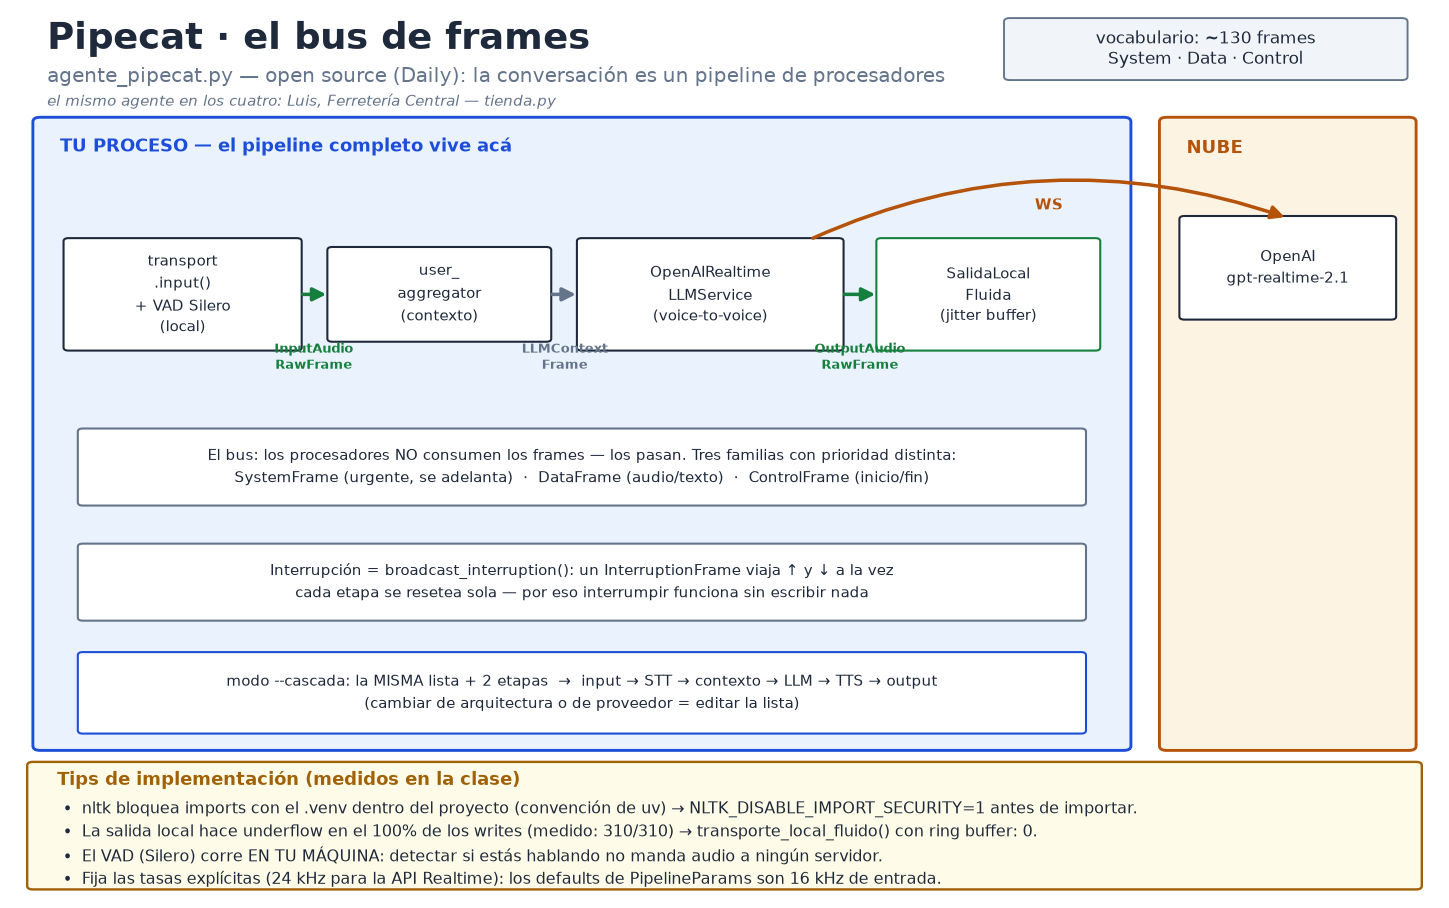
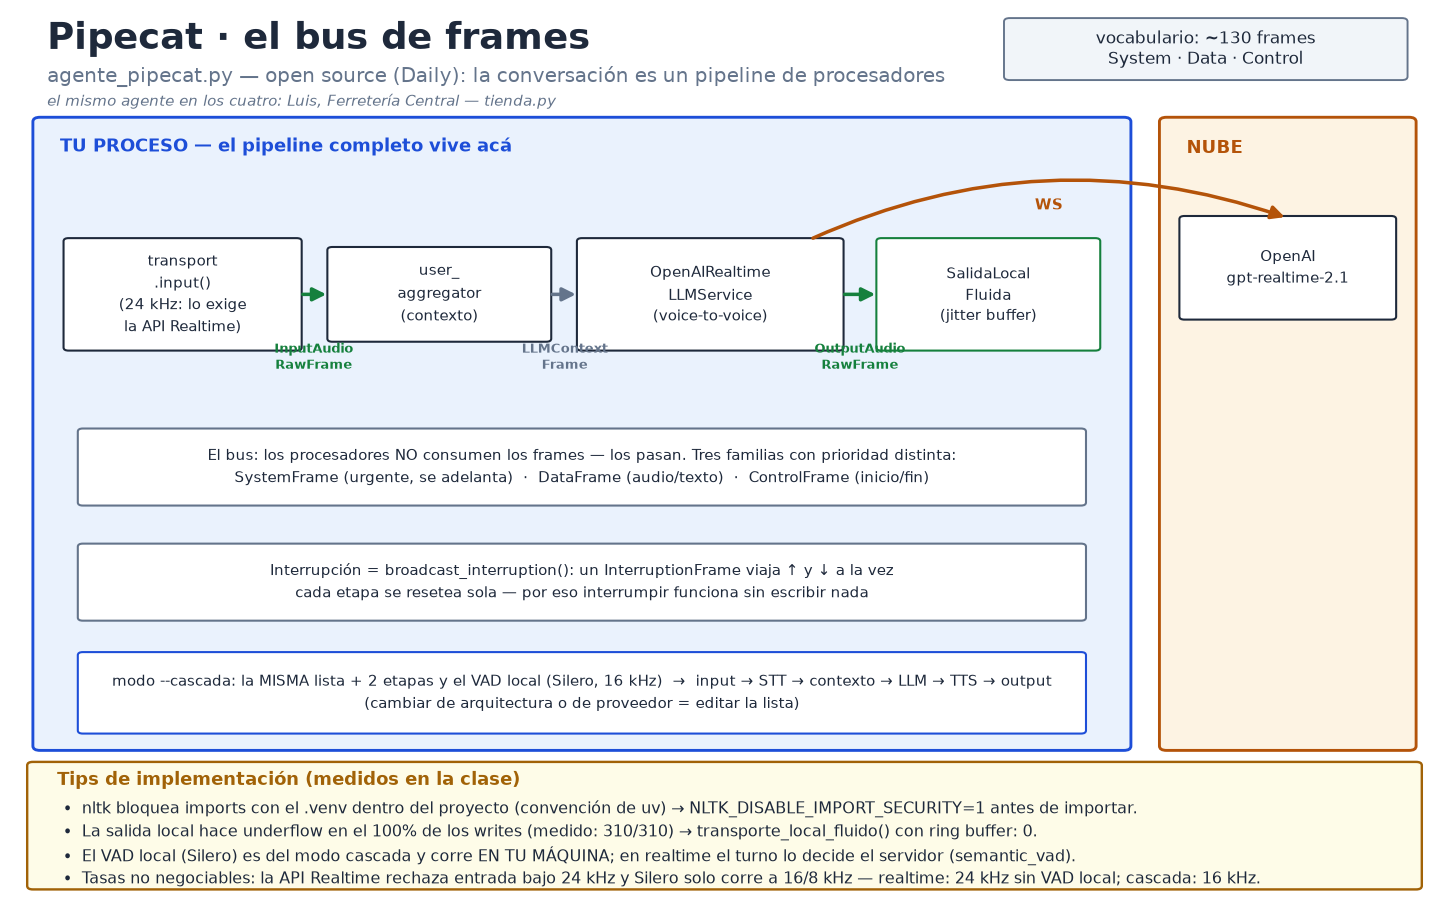
Clase 5.3 L4 — arregla el VAD en modo realtime y renombra "a pelo" → "API directa"
El bug (reportado al correr en vivo): fijar las tasas a 24 kHz en el arreglo
del audio saltón rompió el arranque de agente_pipecat.py con
"Silero VAD sample rate needs to be 16000 or 8000". El --check no lo detectaba
porque el VAD recién procesa audio en vivo.

La investigación reveló un choque de restricciones reales, verificado contra
la API y el código de pipecat 1.7:
- La API Realtime RECHAZA entrada PCM bajo 24 kHz (session.update con
  rate=16000 → "Expected a value >= 24000").
- Pipecat NO resamplea la entrada: _send_user_audio manda los bytes del
  micrófono tal cual al WebSocket (la salida sí: base_output resamplea).
- Silero solo corre a 16 u 8 kHz.

Conclusión: en modo realtime el VAD local no puede existir — y no hace falta.
El turno lo decide el servidor (semantic_vad) y el propio servicio difunde
UserStarted/StoppedSpeakingFrame y la interrupción por el bus
(_handle_evt_speech_started). El aggregator lo confirma en el log:
"detected realtime service; auto-enabled realtime_service_mode".

Fix en agente_pipecat.py: realtime = 24 kHz sin VAD local; cascada = entrada
16 kHz con Silero; salida siempre 24 kHz. Verificado con corridas EN VIVO de
25 s por modo: 0 errores, pipeline listo, sesión establecida.

Material actualizado en consecuencia (notebook, README, diagrama 2): el tip
"fija las tasas a 24 kHz" era exactamente el error, reemplazado por la regla
correcta; la ventaja "VAD local" de Pipecat queda scoped al modo cascada;
[…]

Changed region(s): [[0.0621, 0.9251, 0.8696, 0.9868], [0.0932, 0.7401, 0.7143, 0.7709], [0.0932, 0.3084, 0.1553, 0.37]]

diff --git a/class_5_3_voz/leccion4_frameworks_de_voz/agente_pipecat.py b/class_5_3_voz/leccion4_frameworks_de_voz/agente_pipecat.py
@@ -88,11 +88,23 @@ async def manejar_consultar_stock(params: FunctionCallParams) -> None:
 # Armado del pipeline
 # ---------------------------------------------------------------------------
 
-TASA_AUDIO = 24_000  # la API Realtime trabaja a 24 kHz en ambos sentidos
+# Las tasas de audio NO son negociables, y son distintas por modo:
+# - La API Realtime solo acepta PCM de entrada a 24 kHz (verificado: un session.update
+#   con rate=16000 devuelve "Expected a value >= 24000"). Y pipecat NO resamplea la
+#   entrada — manda los bytes del micrófono tal cual al WebSocket.
+# - Silero (el VAD local) solo corre a 16 u 8 kHz.
+# Consecuencia: en realtime el audio va a 24 kHz y SIN VAD local — el turno lo decide
+# el servidor (semantic_vad) y el propio servicio difunde los UserStarted/Stopped-
+# SpeakingFrame y la interrupción. En cascada, entrada a 16 kHz con Silero.
+TASA_REALTIME = 24_000
+TASA_CASCADA_IN = 16_000
+TASA_SALIDA = 24_000  # la salida siempre puede ser 24 kHz: base_output sí resamplea
 
 
 def construir(modo: str) -> tuple[Pipeline, PipelineWorker]:
     """Devuelve el pipeline y su worker para el modo pedido."""
+    tasa_entrada = TASA_REALTIME if modo == "realtime" else TASA_CASCADA_IN
+
     # `transporte_local_fluido` es el LocalAudioTransport de Pipecat con la salida
     # pasada por un ring buffer. Sin eso el audio sale a saltos: el transporte original
     # escribe trozos de 40 ms con write() bloqueante y el dispositivo se queda seco entre
@@ -101,20 +113,24 @@ def construir(modo: str) -> tuple[Pipeline, PipelineWorker]:
         LocalAudioTransportParams(
             audio_in_enabled=True,
             audio_out_enabled=True,
-            audio_in_sample_rate=TASA_AUDIO,
-            audio_out_sample_rate=TASA_AUDIO,
+            audio_in_sample_rate=tasa_entrada,
+            audio_out_sample_rate=TASA_SALIDA,
         )
     )
 
     herramientas = ToolsSchema(standard_tools=[ESQUEMA_STOCK])
     contexto = LLMContext(messages=[], tools=herramientas)
 
-    # El VAD decide cuándo terminó de hablar el usuario. Silero corre **local**: no manda
-    # el audio a ningún servidor para detectar silencios.
-    agregador_usuario, agregador_asistente = LLMContextAggregatorPair(
-        contexto,
-        user_params=LLMUserAggregatorParams(vad_analyzer=SileroVADAnalyzer()),
-    )
+    if modo == "realtime":
+        # SIN vad_analyzer: los eventos de turno vienen del servidor (ver arriba).
+        agregador_usuario, agregador_asistente = LLMContextAggregatorPair(contexto)
+    else:
+        # El VAD decide cuándo terminó de hablar el usuario, para cortar el turno que
+        # va al STT. Silero corre **local**: no manda audio a ningún servidor.
+        agregador_usuario, agregador_asistente = LLMContextAggregatorPair(
+            contexto,
+            user_params=LLMUserAggregatorParams(vad_analyzer=SileroVADAnalyzer()),
+        )
 
     if modo == "realtime":
         from pipecat.services.openai.realtime.events import (
@@ -188,8 +204,8 @@ def construir(modo: str) -> tuple[Pipeline, PipelineWorker]:
         params=PipelineParams(
             enable_metrics=True,
             enable_usage_metrics=True,
-            audio_in_sample_rate=TASA_AUDIO,
-            audio_out_sample_rate=TASA_AUDIO,
+            audio_in_sample_rate=tasa_entrada,
+            audio_out_sample_rate=TASA_SALIDA,
         ),
     )
     return pipeline, worker

diff --git a/class_5_3_voz/leccion4_frameworks_de_voz/diagramas/generar_diagramas.py b/class_5_3_voz/leccion4_frameworks_de_voz/diagramas/generar_diagramas.py
@@ -93,7 +93,7 @@ def tips(ax, items):
 
 def d0():
     fig, ax = lienzo(
-        "Nivel 0 · la API Realtime a pelo",
+        "Nivel 0 · la API Realtime directa",
         "nivel0_websocket_crudo.py — sin framework: el protocolo de cable, a mano",
         "vocabulario: 56 eventos\n(11 envías · 45 recibes)",
     )
@@ -216,7 +216,7 @@ def d2():
     zona(ax, 81, 17, 17, 70.5, "NUBE", AMBAR_F, AMBAR_B)
 
     y = 68
-    caja(ax, 12, y, 16, 12, "transport\n.input()\n+ VAD Silero\n(local)", fs=9.3)
+    caja(ax, 12, y, 16, 12, "transport\n.input()\n(24 kHz: lo exige\nla API Realtime)", fs=9.3)
     caja(ax, 30, y, 15, 10, "user_\naggregator\n(contexto)", fs=9.3)
     caja(ax, 49, y, 18, 12, "OpenAIRealtime\nLLMService\n(voice-to-voice)", fs=9.3)
     caja(ax, 68.5, y, 15, 12, "SalidaLocal\nFluida\n(jitter buffer)", fs=9.3, ec=VERDE)
@@ -244,7 +244,7 @@ def d2():
          "cada etapa se resetea sola — por eso interrumpir funciona sin escribir nada",
          fs=9.6, ec=GRIS)
     caja(ax, 40, 23, 70, 8.5,
-         "modo --cascada: la MISMA lista + 2 etapas  →  "
+         "modo --cascada: la MISMA lista + 2 etapas y el VAD local (Silero, 16 kHz)  →  "
          "input → STT → contexto → LLM → TTS → output\n"
          "(cambiar de arquitectura o de proveedor = editar la lista)",
          fs=9.6, ec=AZUL_B)
@@ -252,8 +252,8 @@ def d2():
     tips(ax, [
         "nltk bloquea imports con el .venv dentro del proyecto (convención de uv) → NLTK_DISABLE_IMPORT_SECURITY=1 antes de importar.",
         "La salida local hace underflow en el 100% de los writes (medido: 310/310) → transporte_local_fluido() con ring buffer: 0.",
-        "El VAD (Silero) corre EN TU MÁQUINA: detectar si estás hablando no manda audio a ningún servidor.",
-        "Fija las tasas explícitas (24 kHz para la API Realtime): los defaults de PipelineParams son 16 kHz de entrada.",
+        "El VAD local (Silero) es del modo cascada y corre EN TU MÁQUINA; en realtime el turno lo decide el servidor (semantic_vad).",
+        "Tasas no negociables: la API Realtime rechaza entrada bajo 24 kHz y Silero solo corre a 16/8 kHz — realtime: 24 kHz sin VAD local; cascada: 16 kHz.",
     ])
     fig.savefig(SALIDA / "diagrama_2_pipecat.png", bbox_inches="tight", facecolor="white")
     plt.close(fig)

diff --git a/class_5_3_voz/leccion4_frameworks_de_voz/nivel0_websocket_crudo.py b/class_5_3_voz/leccion4_frameworks_de_voz/nivel0_websocket_crudo.py
@@ -1,4 +1,4 @@
-"""Nivel 0: la API Realtime a pelo, sin framework.
+"""Nivel 0: la API Realtime directa, sin framework.
 
 Este script existe para responder una pregunta concreta: **¿qué están haciendo por mí los
 frameworks?** Acá no hay abstracciones — se abre un WebSocket a `/v1/realtime`, se configura

diff --git a/class_5_3_voz/leccion4_frameworks_de_voz/README.md b/class_5_3_voz/leccion4_frameworks_de_voz/README.md
@@ -29,7 +29,7 @@ consulta el stock con una herramienta— y los cuatro importan el mismo dominio 
 
 | Archivo | Framework | Qué representa | Modo de verificación |
 |---|---|---|---|
-| [`nivel0_websocket_crudo.py`](nivel0_websocket_crudo.py) | ninguno | La API a pelo: protocolo, base64 y bucle de eventos a mano. | `--smoke` |
+| [`nivel0_websocket_crudo.py`](nivel0_websocket_crudo.py) | ninguno | La API directa: protocolo, base64 y bucle de eventos a mano. | `--smoke` |
 | [`agente_openai.py`](agente_openai.py) | **OpenAI Agents SDK** | `RealtimeAgent` con los mismos primitivos que tus agentes de texto. | `--smoke` |
 | [`agente_pipecat.py`](agente_pipecat.py) | **Pipecat** (Daily, BSD) | El pipeline explícito; implementa **las dos** arquitecturas. | `--check` |
 | [`agente_elevenlabs.py`](agente_elevenlabs.py) | **ElevenLabs Agents** | El agente vive en la plataforma, no en tu código. | `--check` |
@@ -45,7 +45,7 @@ mensaje: dónde vive la lógica. Cada uno lleva al pie los tips medidos en la cl
 
 | | |
 |---|---|
-| [`diagrama_0_websocket_crudo.png`](diagramas/diagrama_0_websocket_crudo.png) | La API a pelo: 56 eventos, todo lo escribes tú. |
+| [`diagrama_0_websocket_crudo.png`](diagramas/diagrama_0_websocket_crudo.png) | La API directa: 56 eventos, todo lo escribes tú. |
 | [`diagrama_1_openai_agents_sdk.png`](diagramas/diagrama_1_openai_agents_sdk.png) | El cliente semántico: 15 eventos, el audio local sigue siendo tuyo. |
 | [`diagrama_2_pipecat.png`](diagramas/diagrama_2_pipecat.png) | El bus de frames: el pipeline completo vive en tu proceso. |
 | [`diagrama_3_elevenlabs_agents.png`](diagramas/diagrama_3_elevenlabs_agents.png) | La plataforma: el agente vive en la nube; tu proceso presta el micrófono. |
@@ -66,7 +66,7 @@ envejecen con la lección:
 
 | Framework | Vocabulario | Qué es |
 |---|---|---|
-| API Realtime a pelo | **56** eventos (11 envías, 45 recibes) | protocolo de cable |
+| API Realtime directa | **56** eventos (11 envías, 45 recibes) | protocolo de cable |
 | OpenAI Agents SDK | **15** eventos | una *reducción* de los 56, con `raw_model_event` como escotilla |
 | ElevenLabs Agents | **9** eventos (+4 mensajes) | y solo **2** te obligan a actuar (`ping`, `client_tool_call`) |
 | Pipecat | **129** frames (45 System / 32 Data / 43 Control / 9 base) | no es un protocolo: es un **bus interno** |
@@ -79,7 +79,7 @@ Y desarrolla, para cada uno:
   `EndFrame`); la regla de que **los procesadores no consumen los frames, los pasan**; el
   turno completo etapa por etapa con los frames que cada una emite; y la interrupción como
   `broadcast_interruption()`, que difunde el frame **arriba y abajo** del bus.
-- **La API a pelo** — los 45 eventos del servidor agrupados por familia, el turno completo
+- **La API directa** — los 45 eventos del servidor agrupados por familia, el turno completo
   anotado evento por evento, el ida y vuelta de la herramienta en dos mensajes (y por qué
   olvidar el segundo `response.create` deja al agente mudo, sin error), y `server_vad` vs
   `semantic_vad`.
@@ -90,7 +90,7 @@ Y desarrolla, para cada uno:
 Cierra con **el mismo problema a cuatro alturas**: de quién es el turno, qué oyó realmente el
 usuario al interrumpir, y el ida y vuelta de la herramienta. El caso de la interrupción es el
 más ilustrativo — mismo problema físico (el audio en el buffer no es el audio que se oyó) y
-cuatro tratos distintos: a pelo lo reconcilias tú con `conversation.item.truncate`, el SDK te
+cuatro tratos distintos: con la API directa lo reconcilias tú con `conversation.item.truncate`, el SDK te
 avisa con `audio_interrupted`, Pipecat difunde un frame por el bus, y ElevenLabs simplemente
 te manda el texto corregido.
 
@@ -224,7 +224,17 @@ uv run python salida_fluida.py
 
 ## Trampas documentadas
 
-Tres cosas que cuestan una tarde si nadie las avisa:
+Cuatro cosas que cuestan una tarde si nadie las avisa:
+
+- **Las tasas de entrada no son negociables, y chocan entre sí.** La API Realtime **rechaza**
+  PCM de entrada bajo 24 kHz (`Expected a value >= 24000`), pipecat **no resamplea la
+  entrada** (manda los bytes del micrófono tal cual al WebSocket), y Silero —el VAD local—
+  solo corre a 16 u 8 kHz. Consecuencia: en modo `realtime` el pipeline va a 24 kHz **sin**
+  VAD local (el turno lo decide el servidor con `semantic_vad`, y el servicio difunde los
+  `UserStarted/StoppedSpeakingFrame` por el bus); en modo `cascada`, entrada a 16 kHz con
+  Silero. Mezclarlos revienta al arrancar con
+  `Silero VAD sample rate needs to be 16000 or 8000`. La salida sí puede ser siempre 24 kHz,
+  porque `base_output` sí resamplea.
 
 - **`nltk` vs. `.venv` dentro del proyecto.** Pipecat importa `nltk`, que trae un hook de
   seguridad que bloquea cualquier módulo cuyo origen esté *dentro del directorio de trabajo*.
